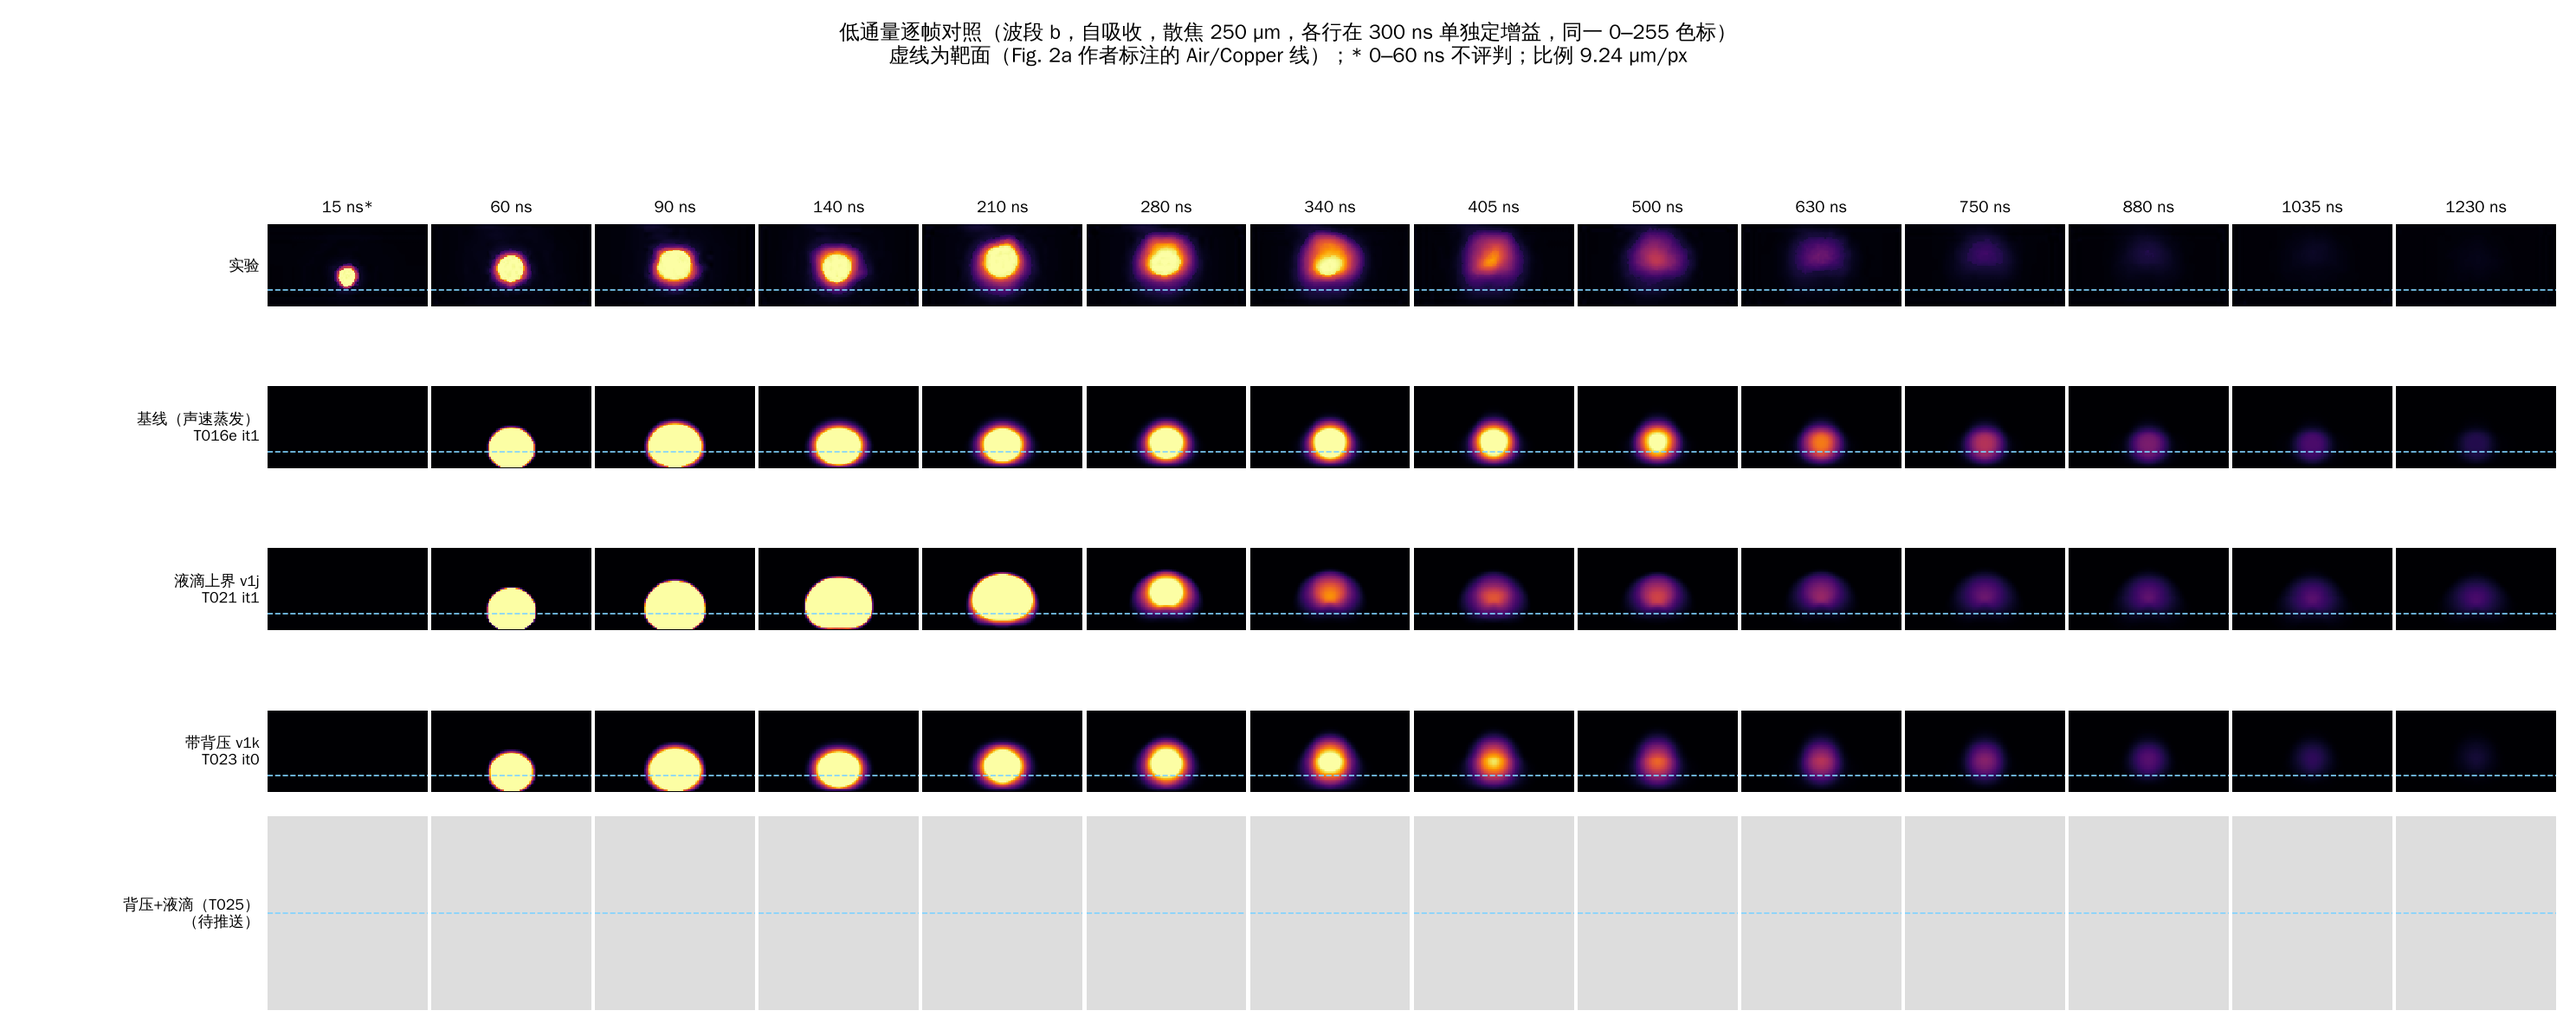
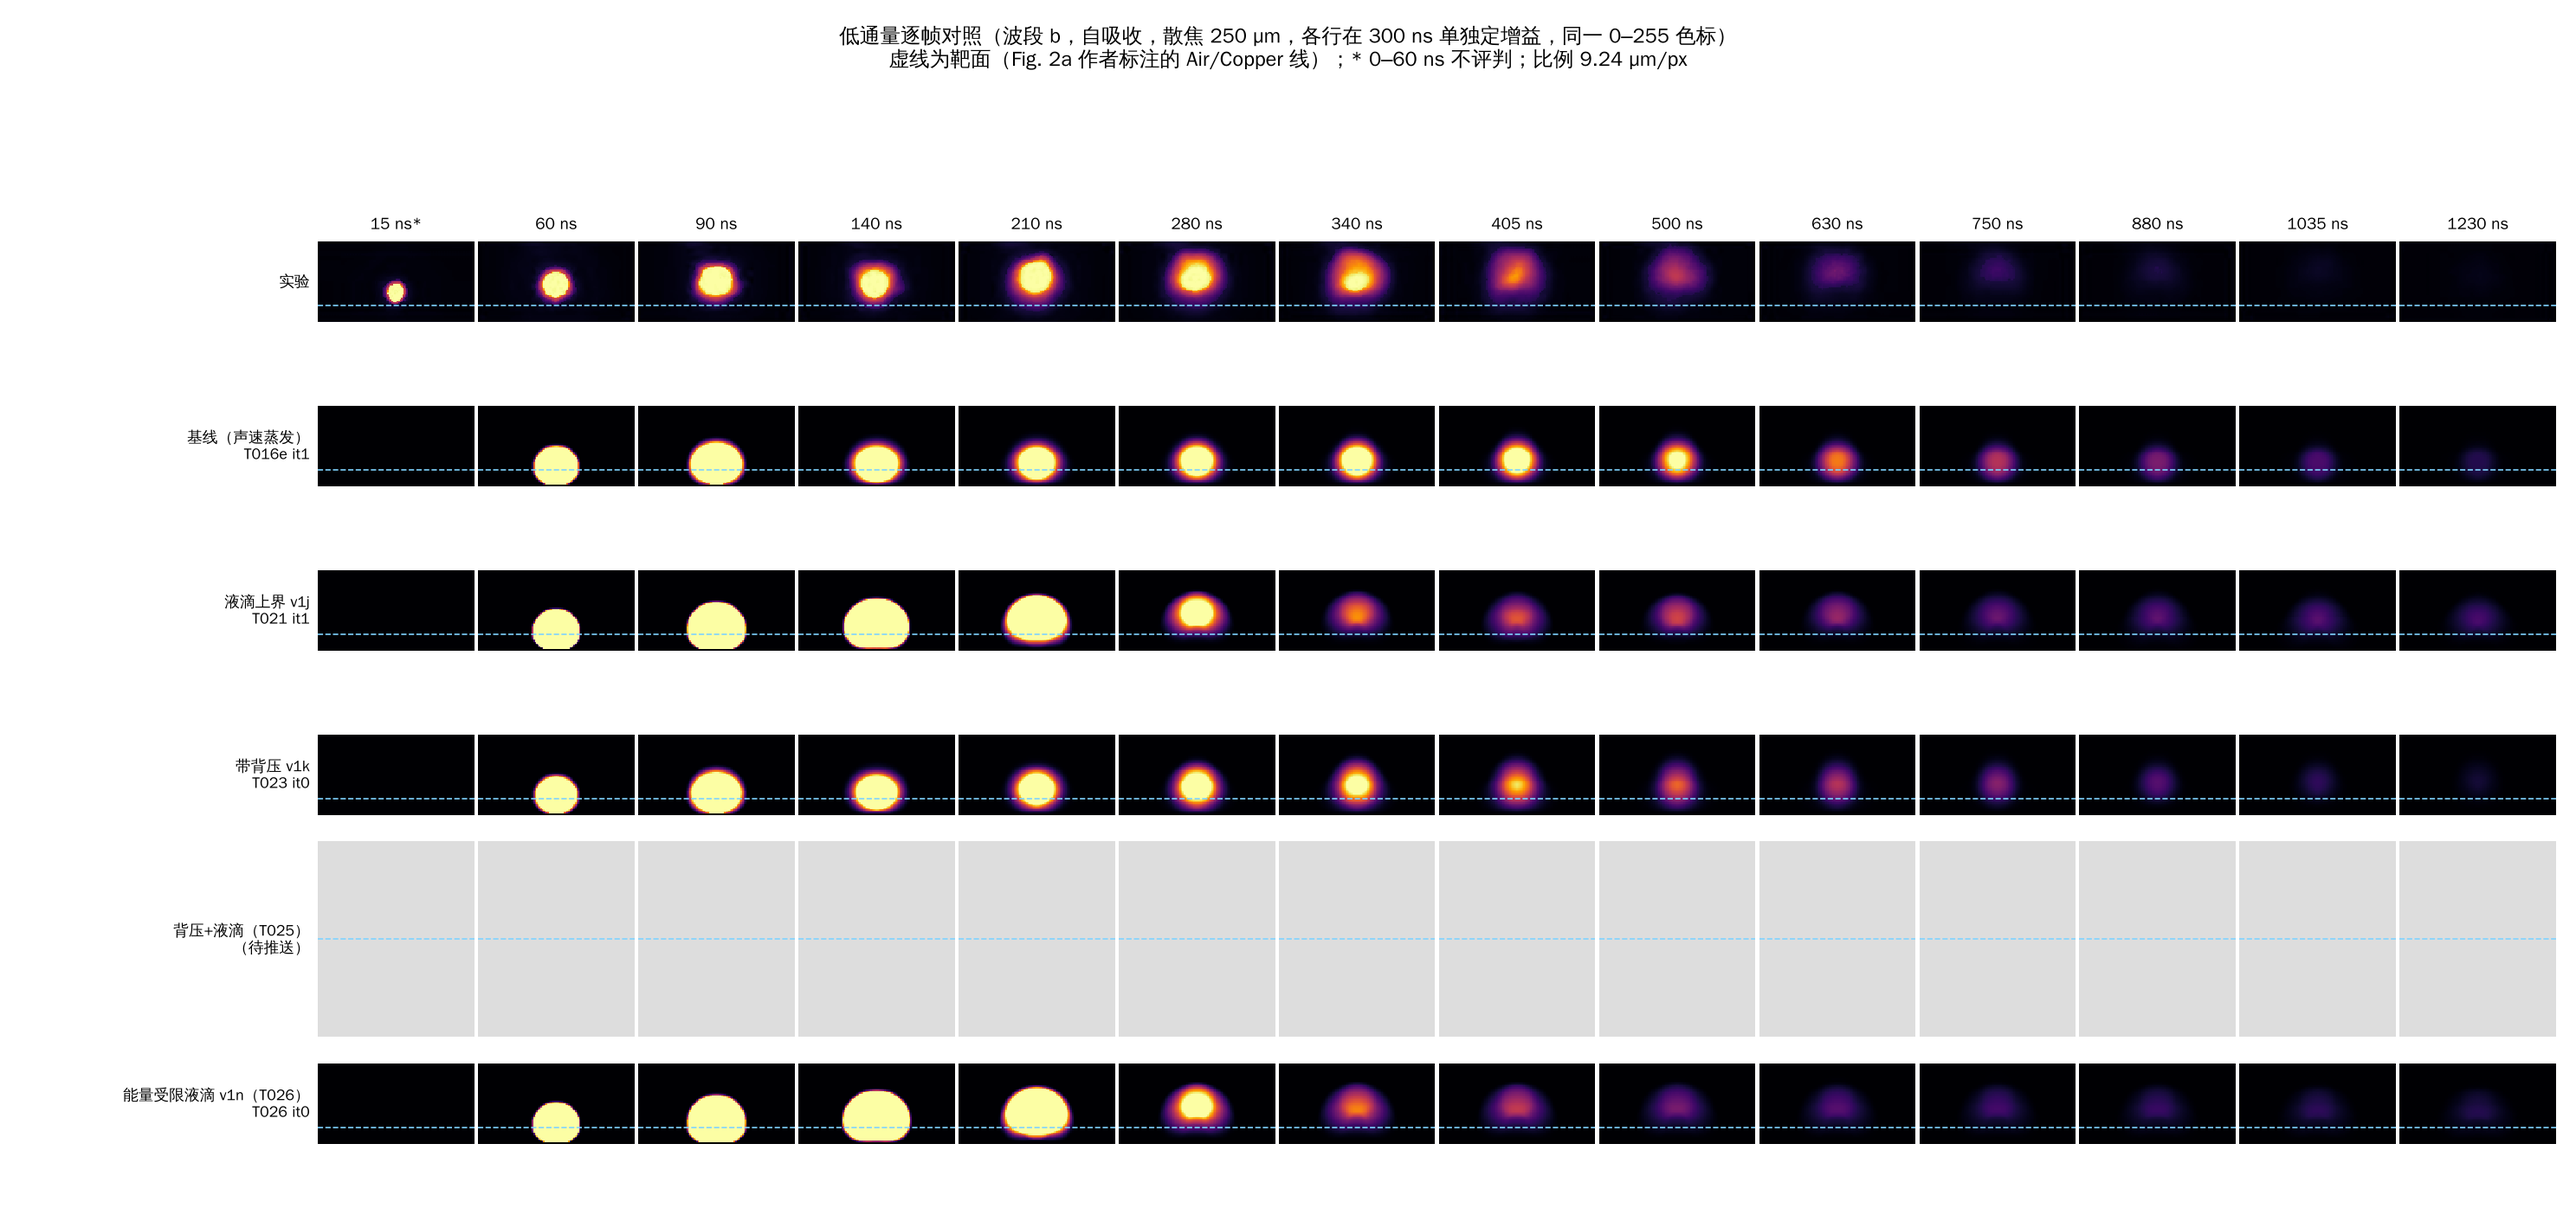
Full comparison: add T026 (v1n) row
Claude-Session: https://claude.ai/code/session_01FS7WDGPKzwdDyXZyPwrs24

diff --git a/scripts/plot_full_comparison.py b/scripts/plot_full_comparison.py
@@ -43,8 +43,8 @@ plt.rcParams.update({"font.size": 9, "axes.spines.top": False, "axes.spines.righ
 LOGFMT = FuncFormatter(lambda v, _: f"{v:g}")
 T_REF = 300.0  # num (registry t_ref_norm, ns)
 K = "#222222"
-COL = {"baseline": "#2a78d6", "droplets": "#eb6834", "backpress": "#1baf7a", "combo": "#8e44ad"}
-LAB = {"baseline": "基线（声速蒸发）", "droplets": "液滴上界 v1j", "backpress": "带背压 v1k", "combo": "背压+液滴（T025）"}
+COL = {"baseline": "#2a78d6", "droplets": "#eb6834", "backpress": "#1baf7a", "combo": "#8e44ad", "elim": "#c0392b"}
+LAB = {"baseline": "基线（声速蒸发）", "droplets": "液滴上界 v1j", "backpress": "带背压 v1k", "combo": "背压+液滴（T025）", "elim": "能量受限液滴 v1n（T026）"}
 
 
 def latest(base, its):
@@ -59,11 +59,13 @@ MEMBERS = {
     "high": {"baseline": latest("results/T016e/high_thin_G0", ["it2"]),
              "droplets": latest("results/T021/high_thin_G0", ["it2"]),
              "backpress": latest("results/T023/high_thin_G0", ["it2", "it1"]),
-             "combo": latest("results/T025/high_thin_G0", ["it2", "it1", "it0"])},
+             "combo": latest("results/T025/high_thin_G0", ["it2", "it1", "it0"]),
+             "elim": latest("results/T026/high_thin_G0", ["it2", "it1", "it0"])},
     "low": {"baseline": latest("results/T016e/low_thin_G0", ["it1"]),
             "droplets": latest("results/T021/low_thin_G0", ["it1"]),
             "backpress": latest("results/T023/low_thin_G0", ["it1", "it0"]),
-            "combo": latest("results/T025/low_thin_G0", ["it1", "it0"])},
+            "combo": latest("results/T025/low_thin_G0", ["it1", "it0"]),
+            "elim": latest("results/T026/low_thin_G0", ["it1", "it0"])},
 }
 SHOCK = {"high": {"baseline": "results/T016e/high_thin_G0/it2/shock_track.csv"},
          "low": {"baseline": "results/T016e/low_thin_G0/it2/shock_track.csv"}}
